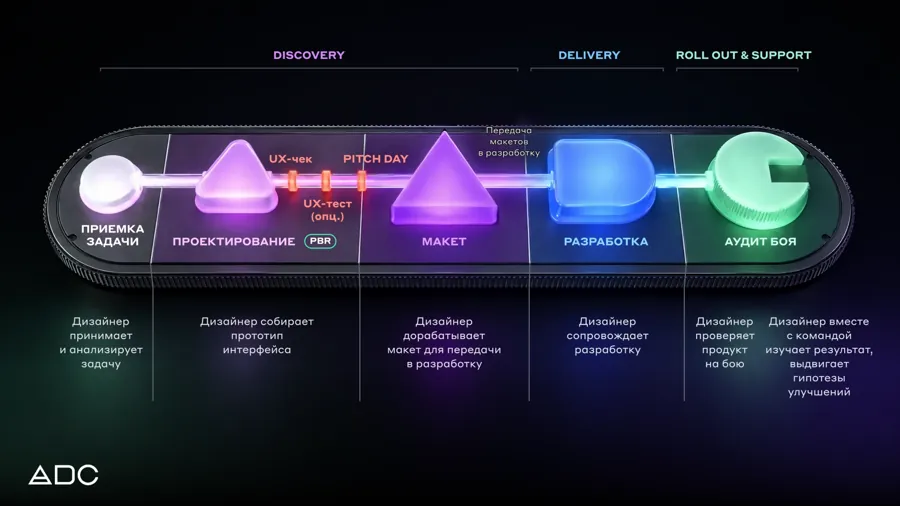
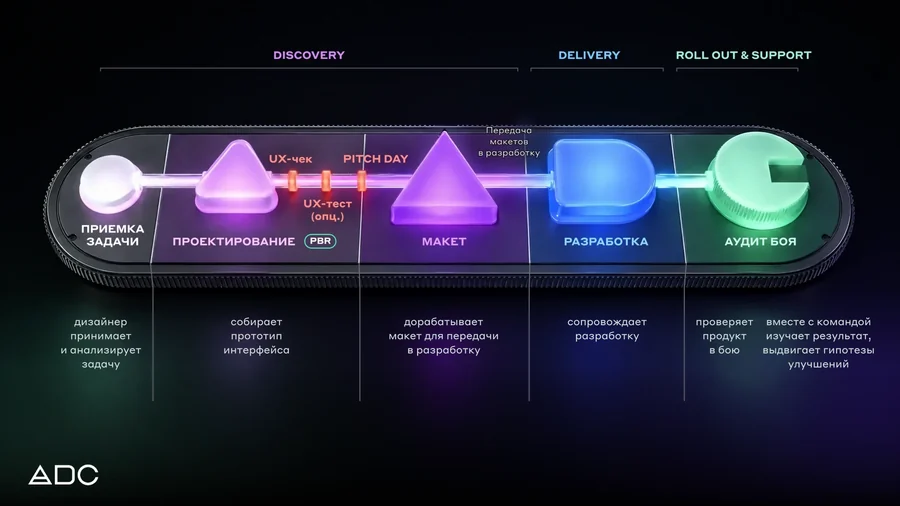
Схема первого варианта: «дизайнер» только в первом этапе, «в бою», перенос «улучшений»

diff --git a/al.js b/al.js
@@ -36,7 +36,7 @@ const P = (s, cls = 'al-p') => `<p class="${cls}">${T(s)}</p>`;
 
 /* ---------- картинка: легкая копия для телефона, полная — для компьютера и крупного просмотра ---------- */
 // версии замененных картинок: новый адрес, чтобы браузер не показывал старую копию из кеша
-const IV = {'v1-schema': '84b51aaa'};
+const IV = {'v1-schema': '84b51aaa', 'v2-schema': 'dddcfa55'};
 function pic(name, { alt = '', cls = '', eager = false, zoom = true, ratio, sizes = '(max-width: 900px) 100vw, 60vw' } = {}) {
   const r = ratio || R[name] || 1.7778, q = IV[name] ? `?v=${IV[name]}` : '';
   return `<figure class="al-ph ${cls}${zoom ? ' zoom' : ''}" style="--r:${r}" data-full="img/${name}.webp${q}">
